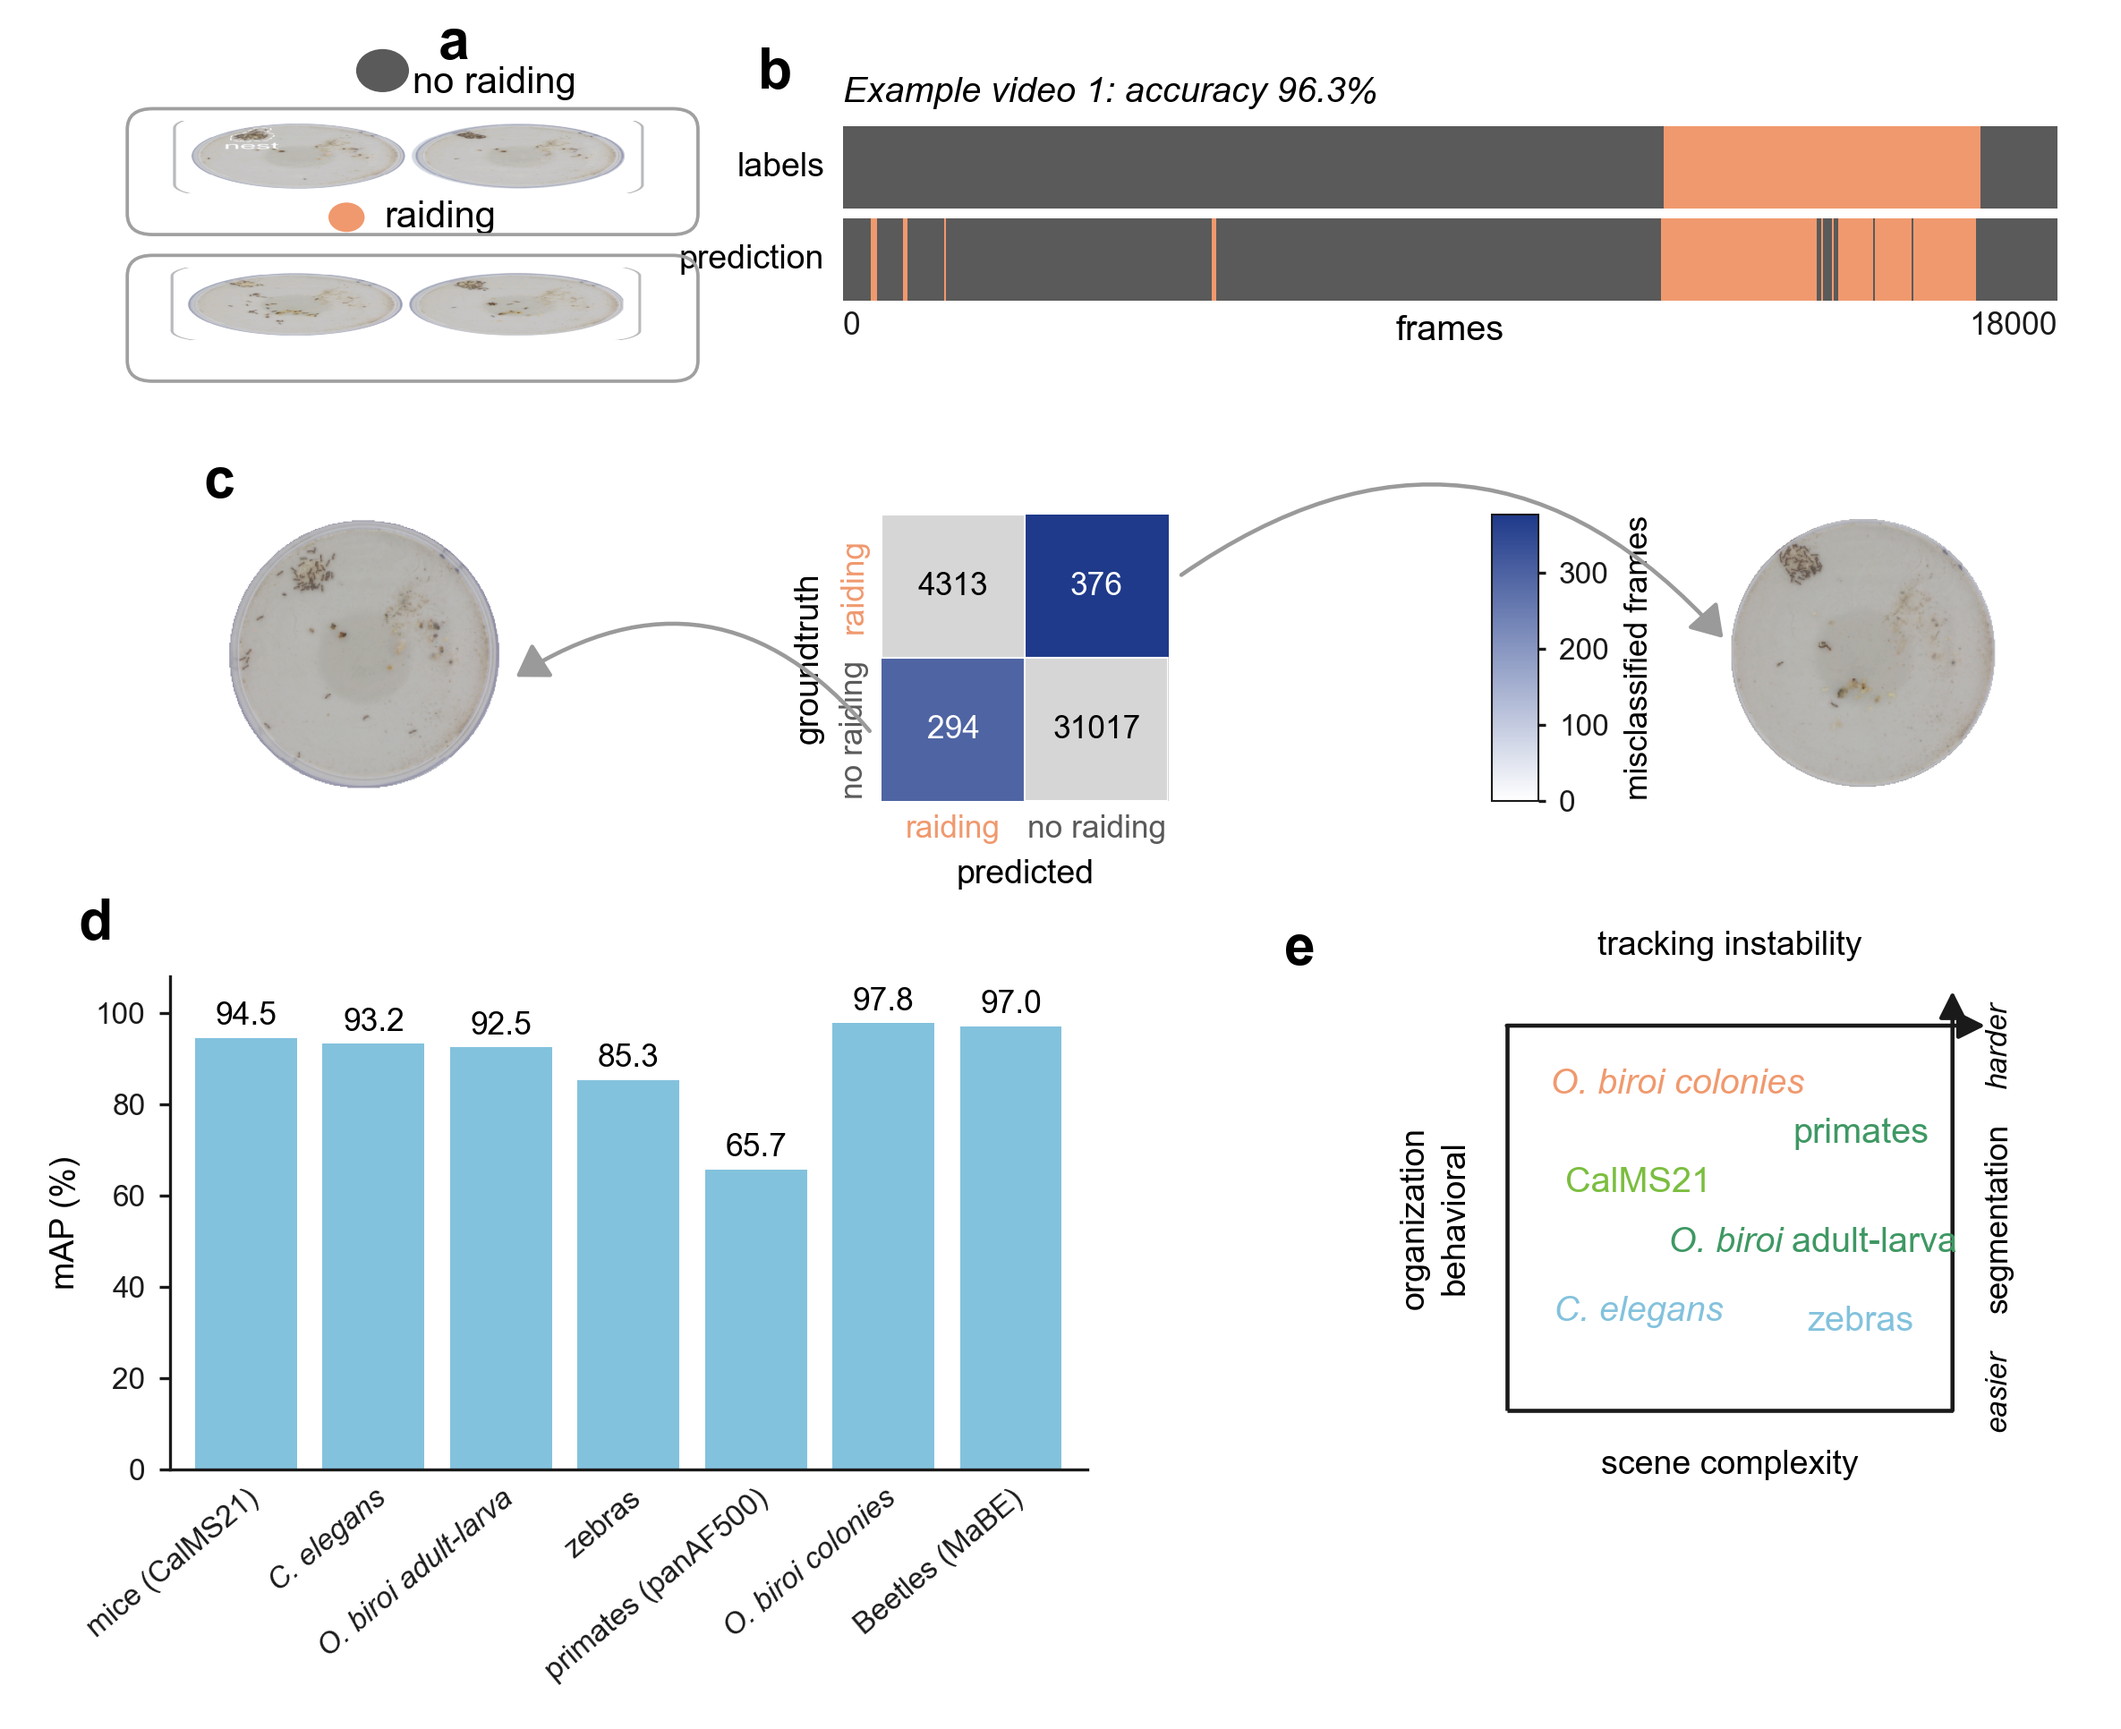
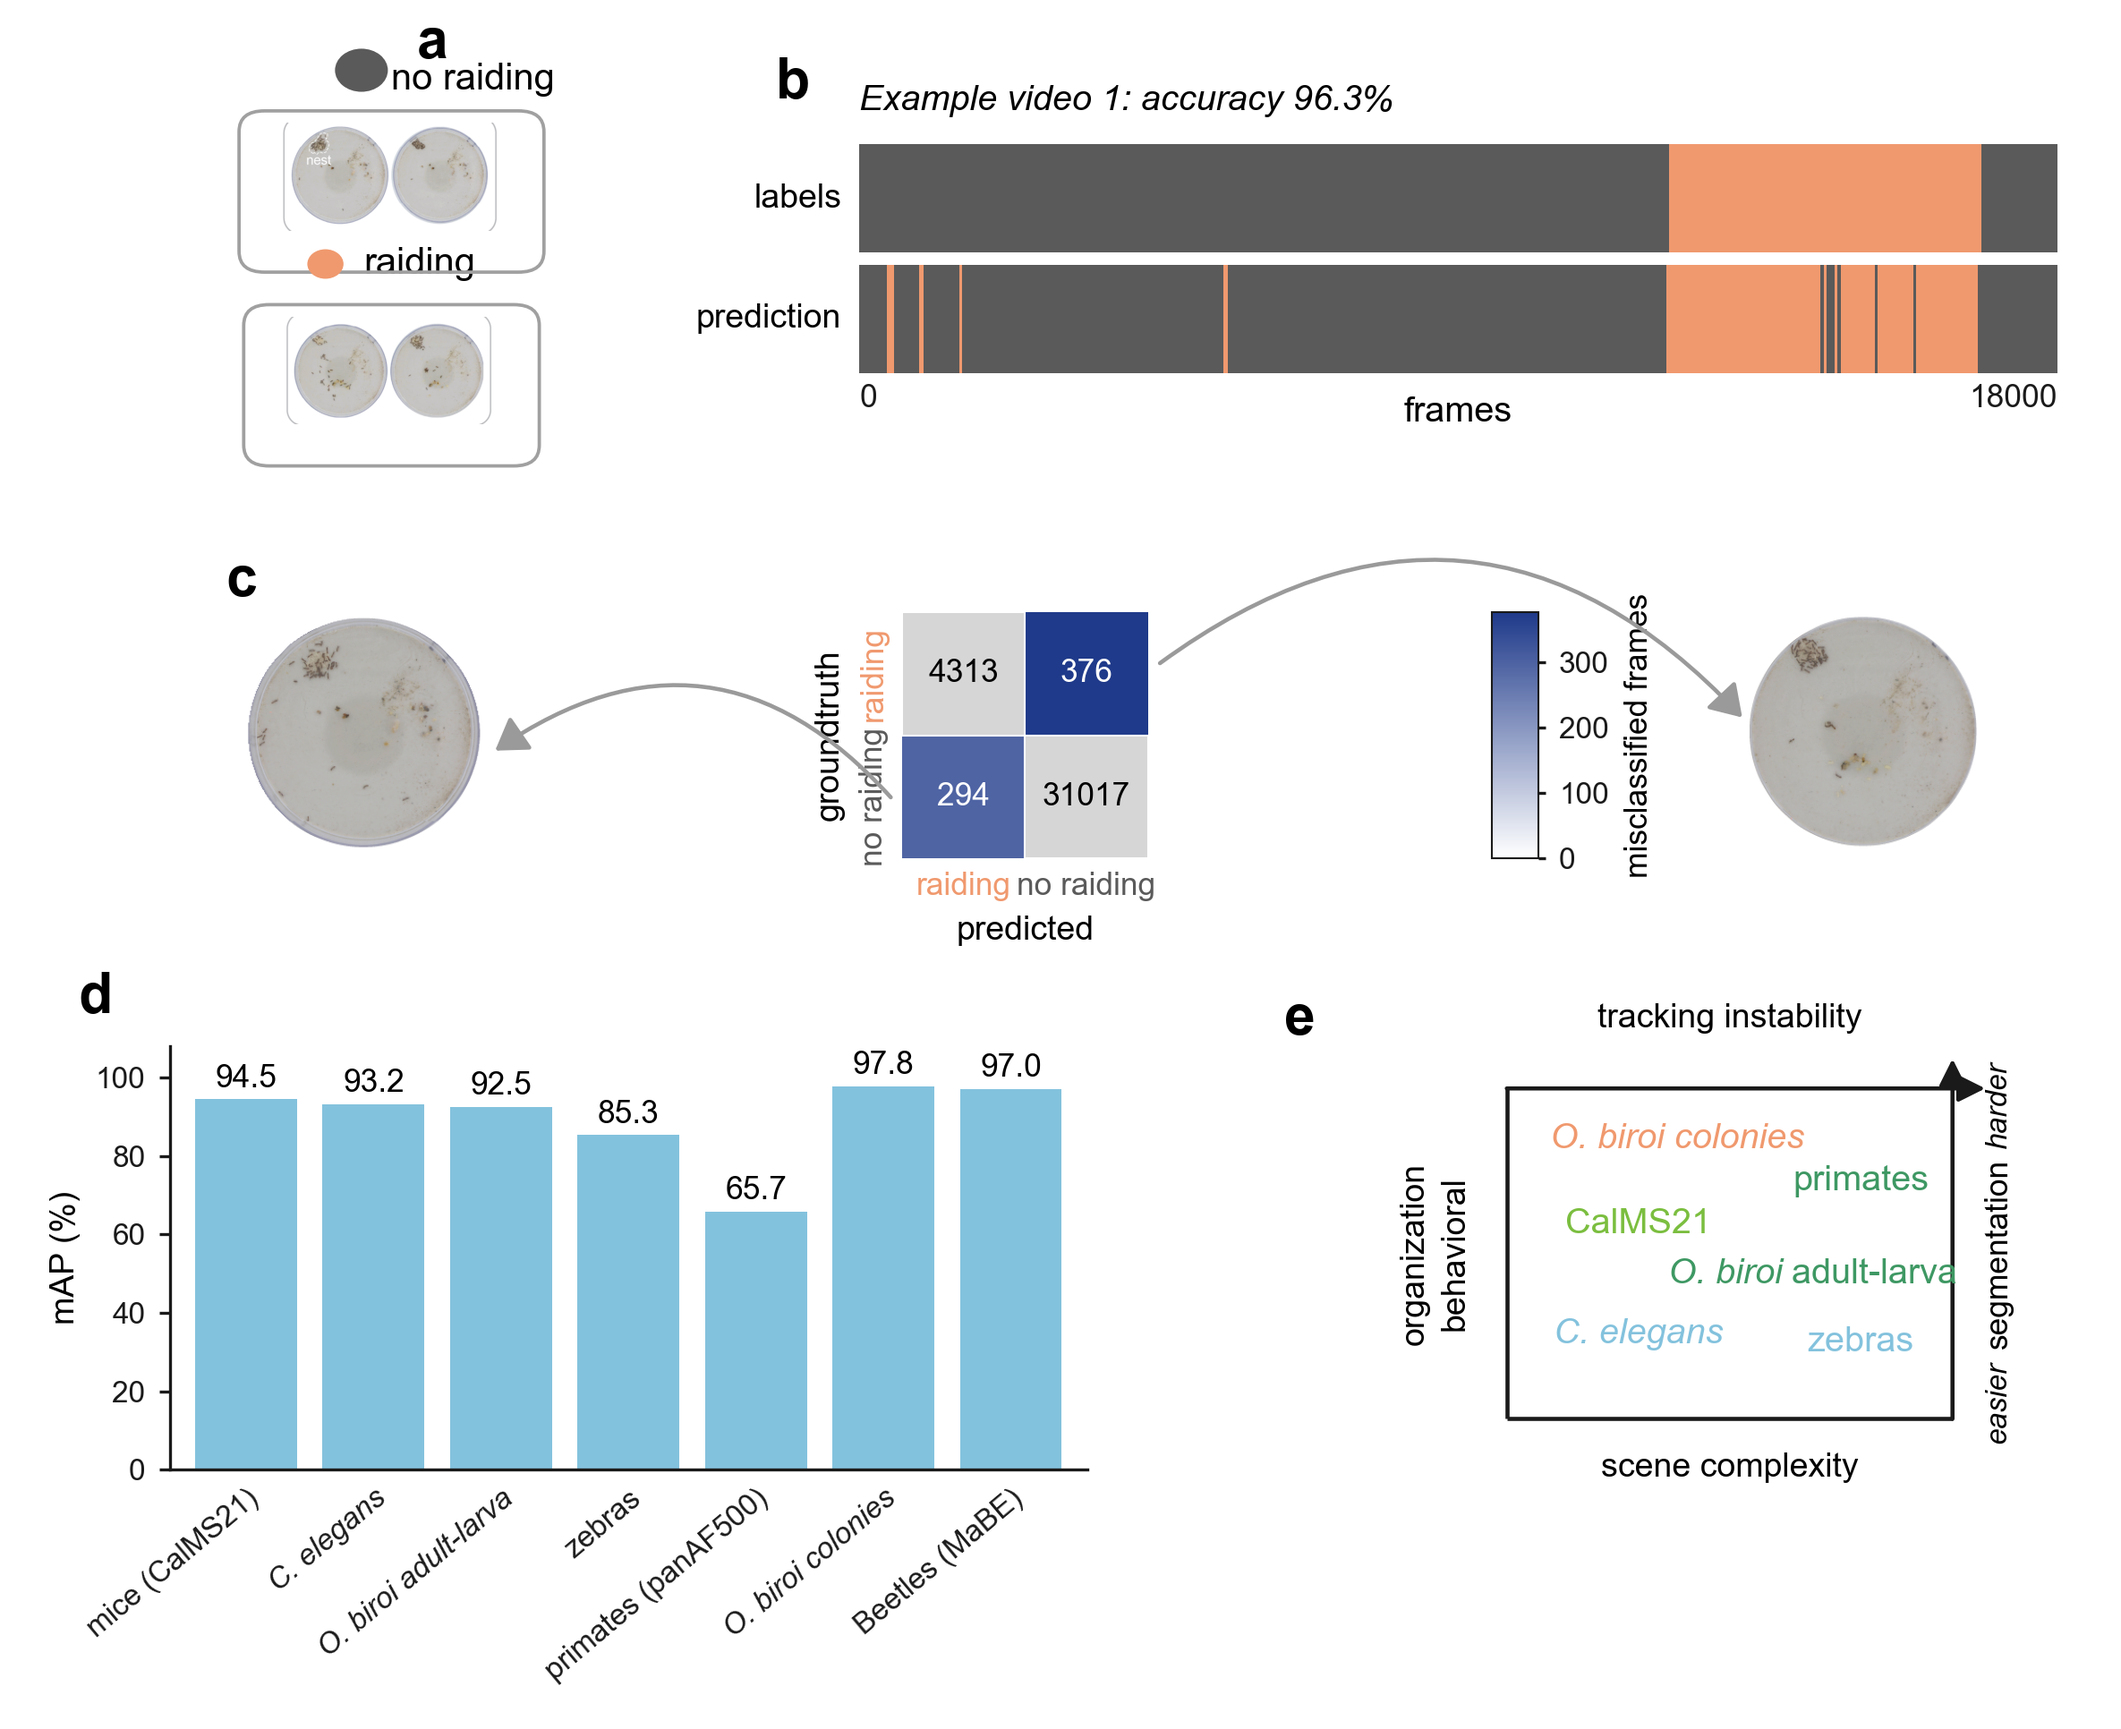
iterating to match

diff --git a/figure5/figure5.py b/figure5/figure5.py
@@ -141,7 +141,7 @@ def panel_a(ax_top_dot, ax_top_img, ax_bot_dot, ax_bot_img, fig):
     for ax, fn in [(ax_top_img, "petri_no_raiding.png"),
                    (ax_bot_img, "petri_raiding.png")]:
         img = mpimg.imread(os.path.join(HERE, "assets", fn))
-        ax.imshow(img, aspect="auto")
+        ax.imshow(img, aspect="equal")
         _hide_spines(ax)
 
     # Draw rounded gray boxes around each image after first draw (so we know
@@ -542,19 +542,21 @@ def main(out=None):
     # Master 3-row gridspec
     gs = fig.add_gridspec(
         3, 1,
-        height_ratios=[0.85, 0.90, 1.55],
-        hspace=0.50,
+        height_ratios=[1.30, 0.90, 1.55],
+        hspace=0.55,
         left=0.08, right=0.97, top=0.96, bottom=0.15,
     )
 
     # ---- Row 1: panel a (left), panel b (right) ----
-    row1 = gs[0].subgridspec(1, 2, width_ratios=[1.0, 2.5], wspace=0.22)
+    row1 = gs[0].subgridspec(1, 2, width_ratios=[1.0, 2.7], wspace=0.30)
 
-    # Panel a: two stacked (dot-header + image) rows
+    # Panel a: two stacked (dot-header + image) rows.
+    # Image rows need enough height so the 2:1 wide petri photos render at
+    # natural aspect inside the rounded gray boxes (matches source look).
     a_sub = row1[0].subgridspec(
         4, 1,
-        height_ratios=[0.40, 1.0, 0.40, 1.0],
-        hspace=0.45,
+        height_ratios=[0.20, 1.0, 0.20, 1.0],
+        hspace=0.50,
     )
     ax_a_top_dot = fig.add_subplot(a_sub[0])
     ax_a_top_img = fig.add_subplot(a_sub[1])
